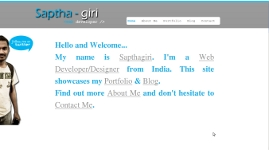
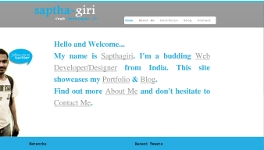
pics1

diff --git a/public/stylesheets/style2.css b/public/stylesheets/style2.css
@@ -113,7 +113,7 @@ width: 950px;
 #header .logo
 {
 float:left;
-padding-top:15px;
+padding-top:20px;
 border: none;
 }
 
@@ -239,7 +239,7 @@ a img { border: 0; }
 
 #sapthagiri img{
     float: left;
-    padding-top: 100px;
+    padding-top: 97px;
 }
 
 #main{
@@ -363,8 +363,7 @@ a img { border: 0; }
     color: #FFFFFF;
 }
 
-.post{ padding: 5px;width: 650px; }
-.post hr{ width: 75%; }
+.post{ width: 600px; }
 #links hr{ width: 100% }
 
 
